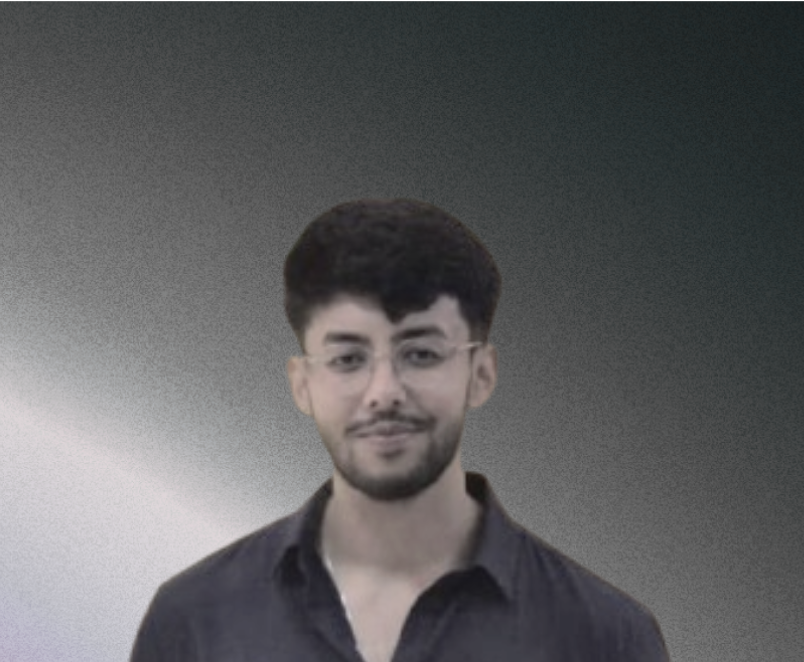
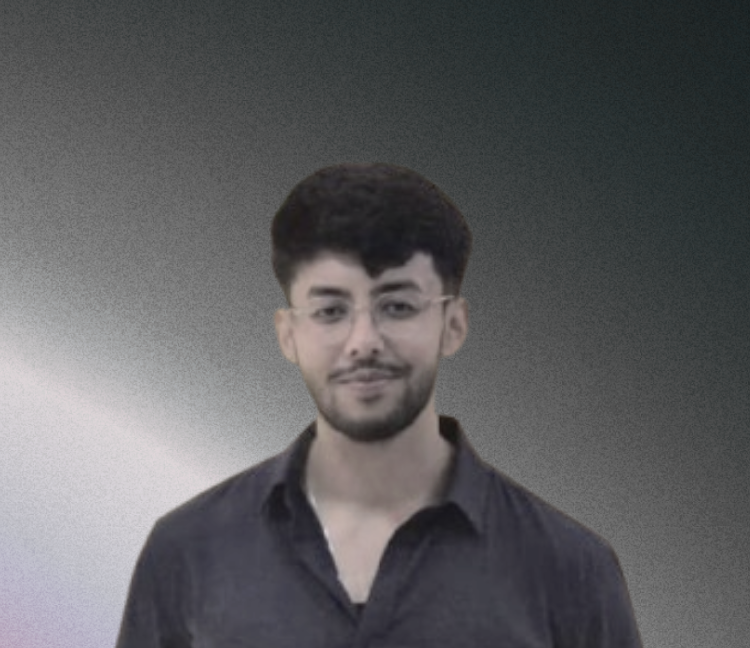
Refactor: Implement Hero Section redesign

Changed region(s): [[0.0, 0.2469, 0.8587, 1.0], [0.0307, 0.4012, 0.0613, 0.4321]]

diff --git a/src/components/HeroSection.tsx b/src/components/HeroSection.tsx
@@ -1,5 +1,6 @@
 import headshot from "@/assets/headshot.jpg";
 import { Button } from "@/components/ui/button";
+import { Linkedin, FolderOpen, Mail } from "lucide-react";
 
 const HeroSection = () => {
   const scrollToContact = () => {
@@ -9,17 +10,24 @@ const HeroSection = () => {
     }
   };
 
+  const scrollToProjects = () => {
+    const element = document.getElementById('projects');
+    if (element) {
+      element.scrollIntoView({ behavior: 'smooth' });
+    }
+  };
+
   return (
-    <section className="section-light min-h-screen pt-32 pb-20 relative">
+    <section className="section-light min-h-screen pt-24 pb-16 relative">
       <div className="container mx-auto px-6 max-w-7xl">
         {/* Content Grid - Name, Description, and Circular Image */}
-        <div className="grid grid-cols-1 lg:grid-cols-2 gap-12 lg:gap-20 items-center">
-          {/* Left Column - Name, Description and Button */}
-          <div className="order-2 lg:order-1 space-y-8">
-            <h1 className="text-6xl md:text-7xl lg:text-8xl font-display leading-tight">
-              AAYUSH<br />ANAND<span className="text-4xl md:text-5xl align-super">©</span>
+        <div className="grid grid-cols-1 lg:grid-cols-2 gap-8 lg:gap-16 items-center">
+          {/* Left Column - Name, Description, Button and Icons */}
+          <div className="order-2 lg:order-1 space-y-6">
+            <h1 className="text-7xl md:text-8xl lg:text-9xl font-display leading-tight">
+              AAYUSH<br />ANAND
             </h1>
-            <p className="text-lg md:text-xl lg:text-2xl font-body leading-relaxed text-muted-foreground">
+            <p className="text-lg md:text-xl lg:text-2xl font-body leading-relaxed text-muted-foreground max-w-lg">
               I've worked across Product Launches, GTM Strategy & Venture Fundraising, scaling products from 0→1.
             </p>
             <Button 
@@ -29,23 +37,58 @@ const HeroSection = () => {
             >
               GET IN TOUCH
             </Button>
+            
+            {/* Social/Navigation Icons */}
+            <div className="flex items-center gap-6 pt-2">
+              <a 
+                href="https://www.linkedin.com/in/aayush-anand-/" 
+                target="_blank" 
+                rel="noopener noreferrer"
+                className="text-muted-foreground hover:text-foreground transition-colors"
+                aria-label="LinkedIn Profile"
+              >
+                <Linkedin className="w-6 h-6" />
+              </a>
+              <button 
+                onClick={scrollToProjects}
+                className="text-muted-foreground hover:text-foreground transition-colors"
+                aria-label="View Projects"
+              >
+                <FolderOpen className="w-6 h-6" />
+              </button>
+              <button 
+                onClick={scrollToContact}
+                className="text-muted-foreground hover:text-foreground transition-colors"
+                aria-label="Contact"
+              >
+                <Mail className="w-6 h-6" />
+              </button>
+            </div>
           </div>
 
-          {/* Right Column - Circular Profile Image */}
-          <div className="order-1 lg:order-2 flex justify-center lg:justify-end">
-            <div className="relative w-full max-w-[400px] aspect-square">
+          {/* Right Column - Circular Profile Image with NOV '25 */}
+          <div className="order-1 lg:order-2 flex flex-col items-center lg:items-end gap-6 relative">
+            {/* Arrow Text - Hidden on mobile/tablet */}
+            <div className="hidden xl:block absolute -left-32 top-1/2 -translate-y-1/2">
+              <p className="text-xl font-body text-muted-foreground whitespace-nowrap">
+                Hi! I'm Aayush Anand →
+              </p>
+            </div>
+            
+            <div className="relative w-full max-w-[380px] aspect-square">
               <img 
                 src={headshot}
                 alt="Aayush Anand - Product & Operations Leader"
                 className="w-full h-full grayscale rounded-full object-cover"
               />
             </div>
+            
+            {/* Available for Work & NOV '25 */}
+            <div className="text-center lg:text-right space-y-1">
+              <p className="text-sm tracking-wider font-medium text-muted-foreground">AVAILABLE FOR WORK</p>
+              <p className="text-6xl md:text-7xl lg:text-8xl font-display leading-tight">NOV '25</p>
+            </div>
           </div>
-        </div>
-
-        {/* Available for Work - Bottom Right */}
-        <div className="absolute bottom-8 right-8 hidden lg:block">
-          <p className="text-sm tracking-wider font-medium">AVAILABLE FOR WORK</p>
         </div>
       </div>
     </section>

diff --git a/src/components/Header.tsx b/src/components/Header.tsx
@@ -13,7 +13,7 @@ const Header = () => {
           {/* Name - Left */}
           <div className="col-span-12 md:col-span-4">
             <h2 className="text-sm md:text-base font-display tracking-tight">
-              AAYUSH ANAND®
+              AAYUSH ANAND
             </h2>
           </div>
 
